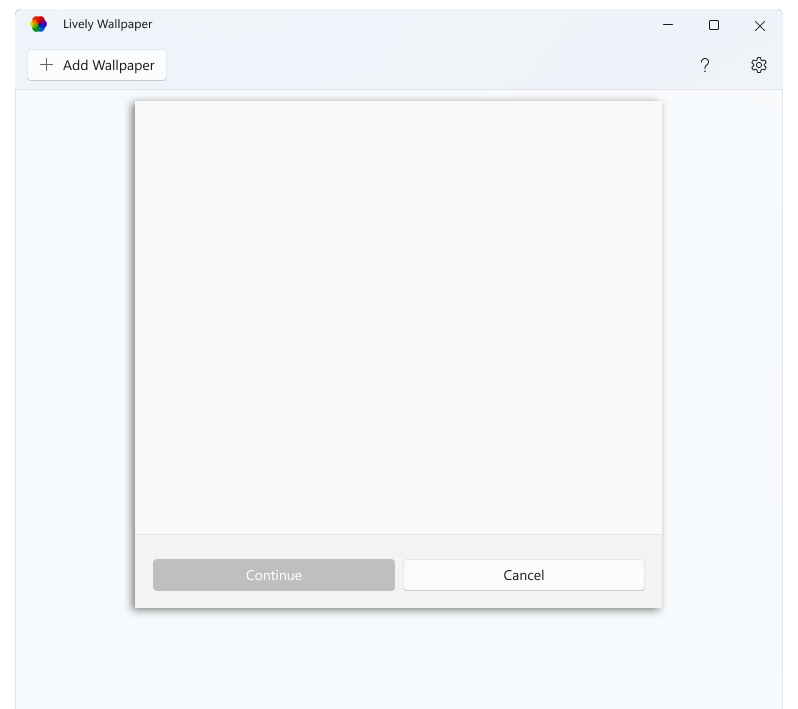
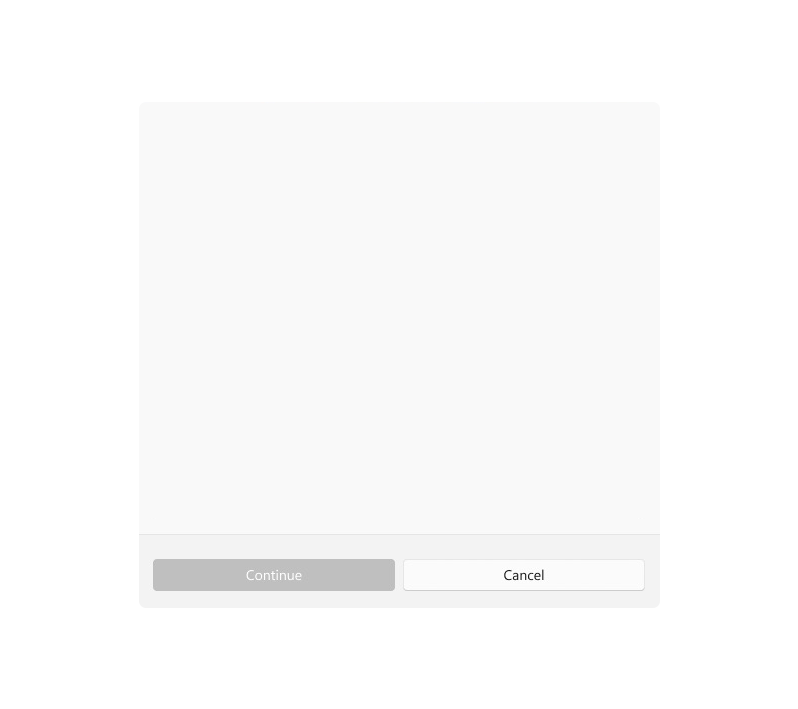
better dialog

Changed region(s): [[0.0902, 0.031, 0.8421, 0.8688], [0.9323, 0.0621, 0.9624, 0.1241], [0.0301, 0.0, 0.0602, 0.0621]]

diff --git a/dani/index.html b/dani/index.html
@@ -26,7 +26,7 @@
       <div class="ui-app">
         <!-- app wallpaper library -->
         <div id="ui-app-library">
-          <img src="assets/app.png" class="appImg" />
+          <img src="assets/app.png" class="ui-app-img" />
           <ul id="wallpapers" class="wallpapers">
             <li id="rain" class="library">
               <img src="assets/rain_preview.jpg" style="outline: 2.5px solid #a425a0" width="600" height="400" />
@@ -41,12 +41,12 @@
         </div>
 
         <!-- app wallpaper customise -->
-        <div id="ui-app-customise">
+        <div id="ui-app-customise" >
           <div id="ui-app-customize-heading" style="position: absolute; top: -175px; left: 15px; opacity: 0">
             <h1>It's Magic</h1>
             <h2>Anything is possible, go on try it..</h2>
           </div>
-          <img src="assets/app_dialog.png" class="appImg" />
+          <img src="assets/app_dialog.png" class="ui-app-dialog-img"/>
           <div id="ui-app-customise-controls">
             <div id="ui-app-customise-controls-test" style="display: none">
               <input style="background-size: 40% 100%" type="range" min="0" max="1" value="0.4" step="0.01" />

diff --git a/dani/js/index.js b/dani/js/index.js
@@ -41,19 +41,21 @@ $(window).scroll(function () {
   // Opacity of frame
   var alpha = 1 - percentage;
 
-  $(".ui-app").css("margin-top", marginTop);
-  $("#ui-app-customize-heading").css("opacity", 1 - alpha);
-  $("#ui-app-library").css("opacity", alpha);
-  $("#ui-app-customise").css("opacity", 1 - alpha);
   $(".heading").css("opacity", alpha);
+  $(".ui-app").css("margin-top", marginTop);
+  $("#ui-app-library").css("filter", `brightness(${1 - (1 - alpha)/4})`);
+  $("#ui-app-customize-heading").css("opacity", 1 - alpha);
+  $("#ui-app-customise").css("opacity", 1 - alpha);
 
   if(alpha == 0)
   {
-    $("#ui-app-library").css("visibility", "collapse");
+    $("#ui-app-library").css("pointer-events", "none");
+    $("#ui-app-customise").css("pointer-events", "auto");
   }
   else
   {
-    $("#ui-app-library").css("visibility", "visible");
+    $("#ui-app-library").css("pointer-events", "auto");
+    $("#ui-app-customise").css("pointer-events", "none");
   }
 
 });

diff --git a/dani/styles/style.css b/dani/styles/style.css
@@ -162,11 +162,14 @@ div.desc {
 
 #ui-app-library {
   position: absolute;
-  z-index: 10;
+  z-index: 1;
 }
 
 #ui-app-customise {
   position: absolute;
+  pointer-events: none;
+  opacity: 0;
+  z-index: 2;
 }
 
 #ui-app-customise-controls {
@@ -182,8 +185,12 @@ div.desc {
   filter: drop-shadow(10px 5px 7.5px rgba(0, 0, 0, 0.5));
 }
 
-.appImg {
-  filter: drop-shadow(10px 5px 10px rgba(0, 0, 0, 0.5));
+.ui-app-img {
+  filter: drop-shadow(5px 0px 10px rgba(0, 0, 0, 0.5));
+}
+
+.ui-app-dialog-img {
+  filter: drop-shadow(0px 0px 5px rgba(0, 0, 0, 0.5));
 }
 
 @-moz-keyframes spin {
